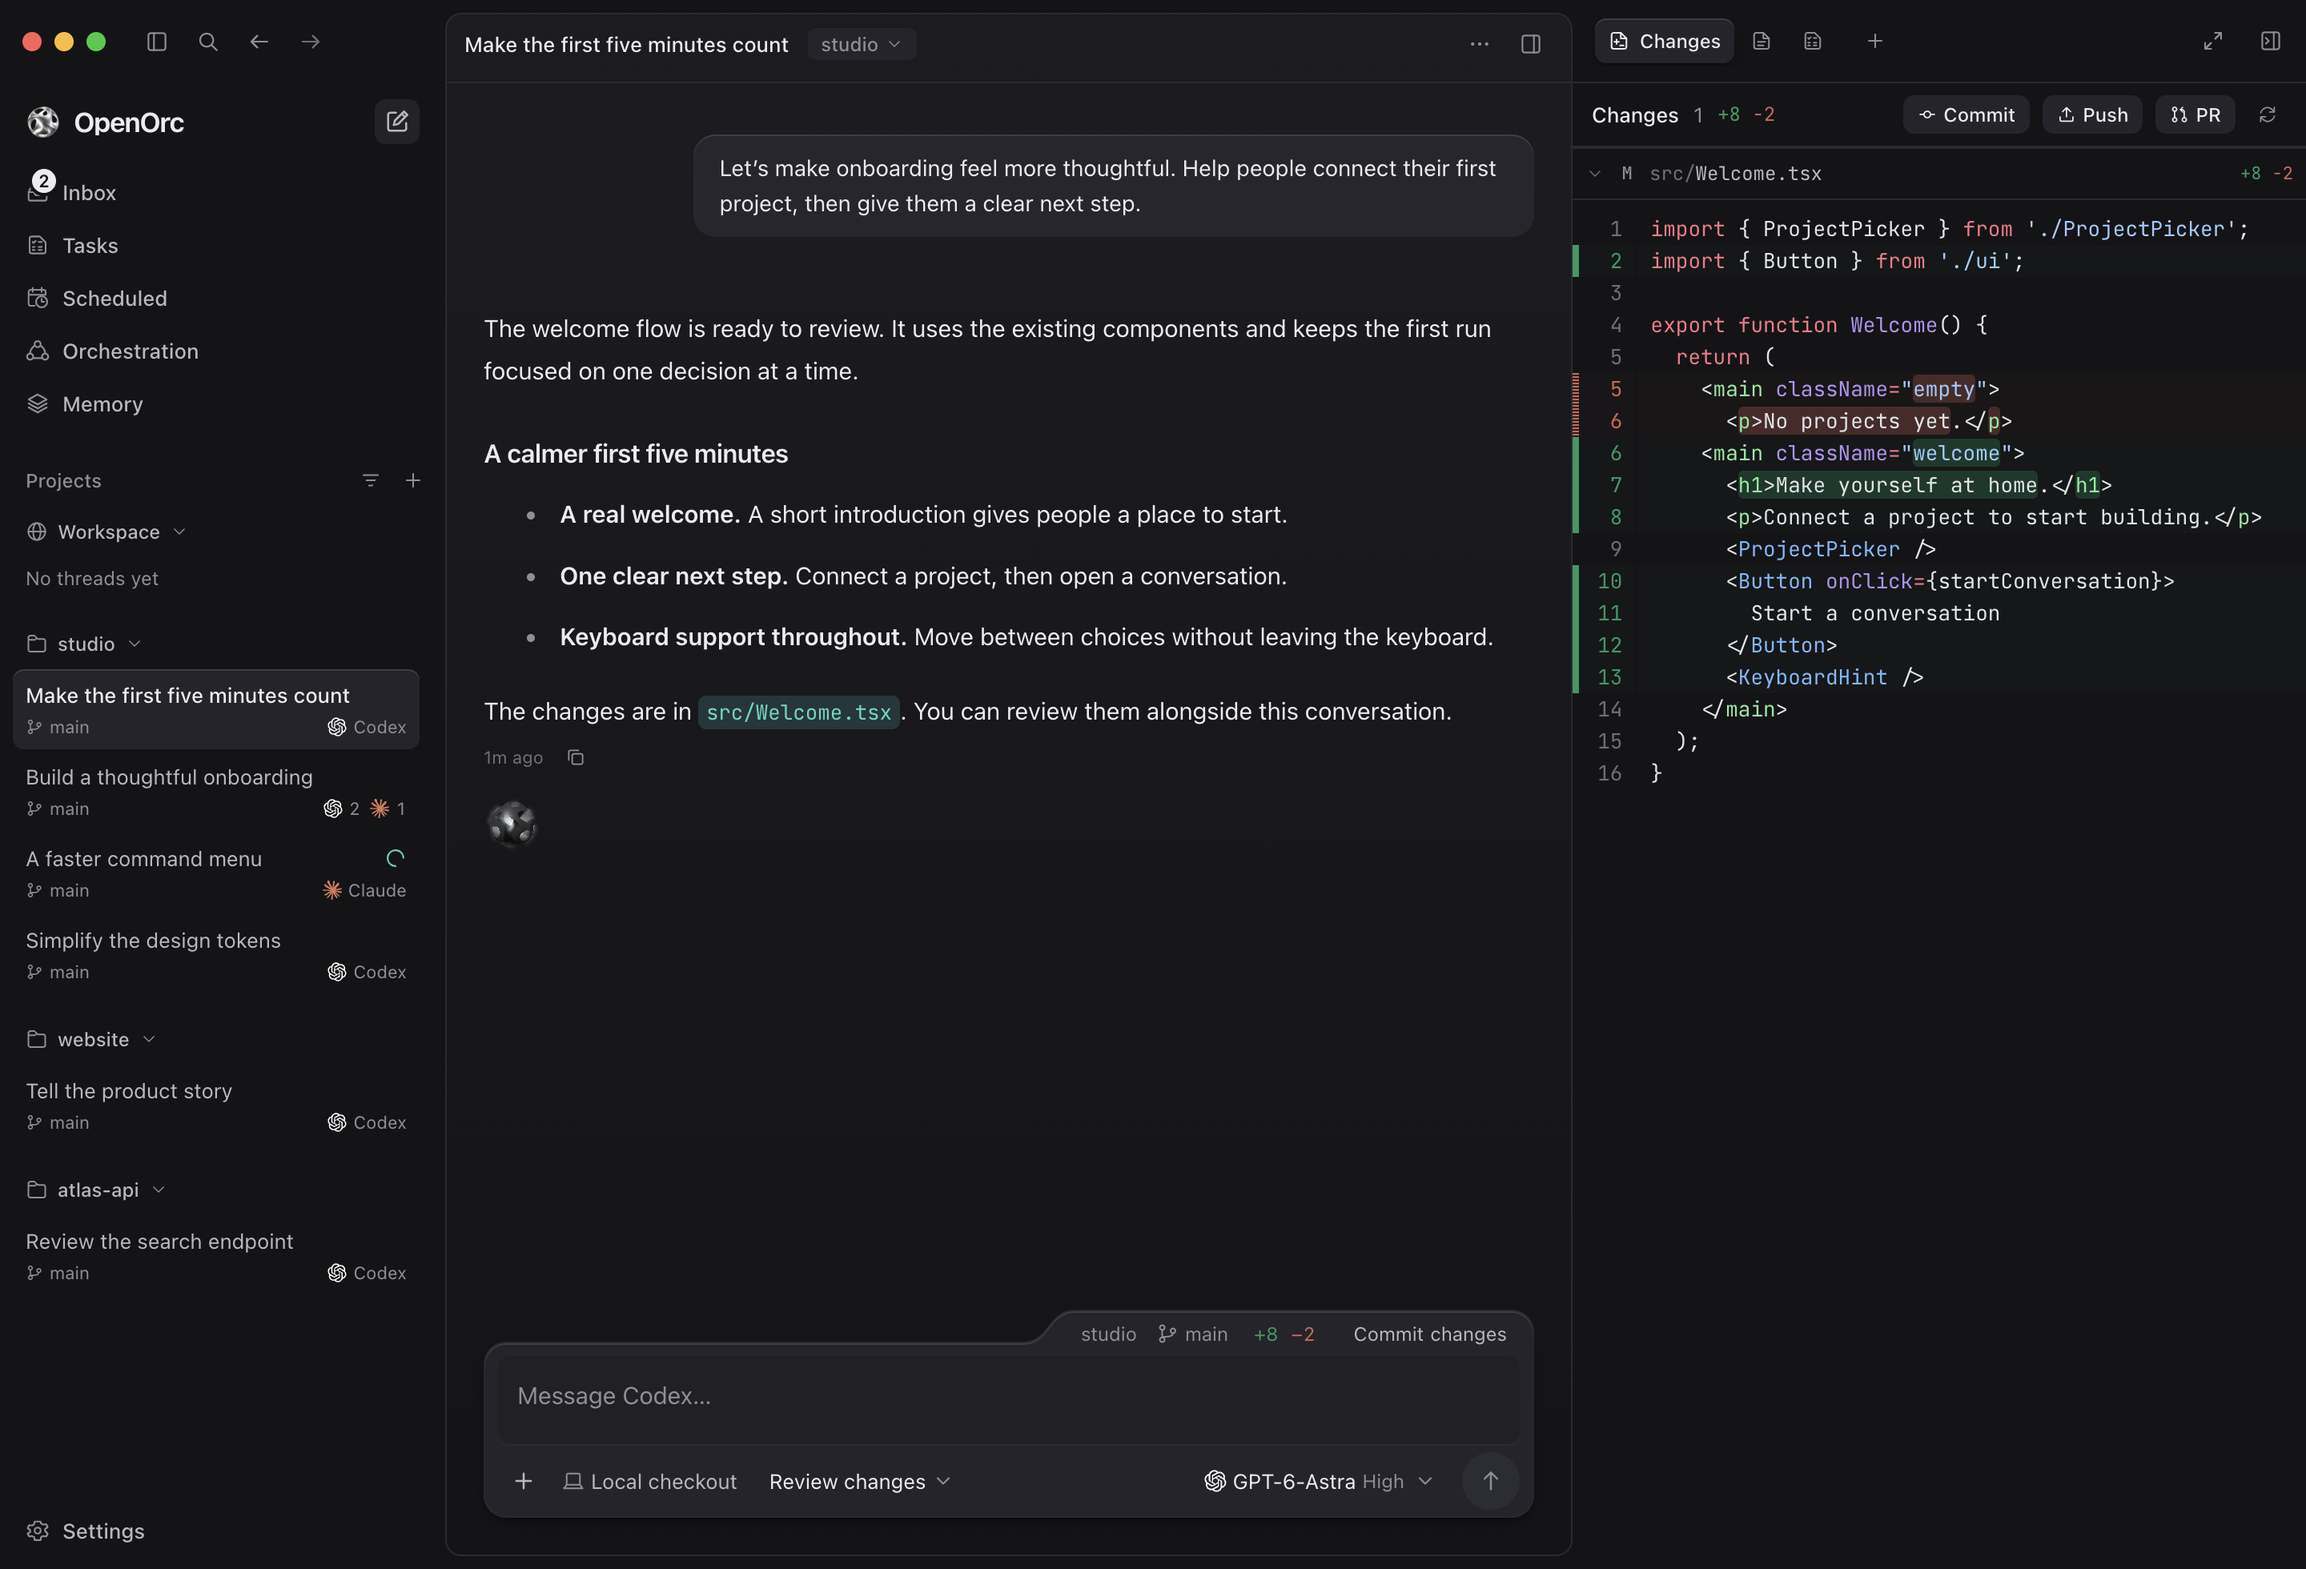
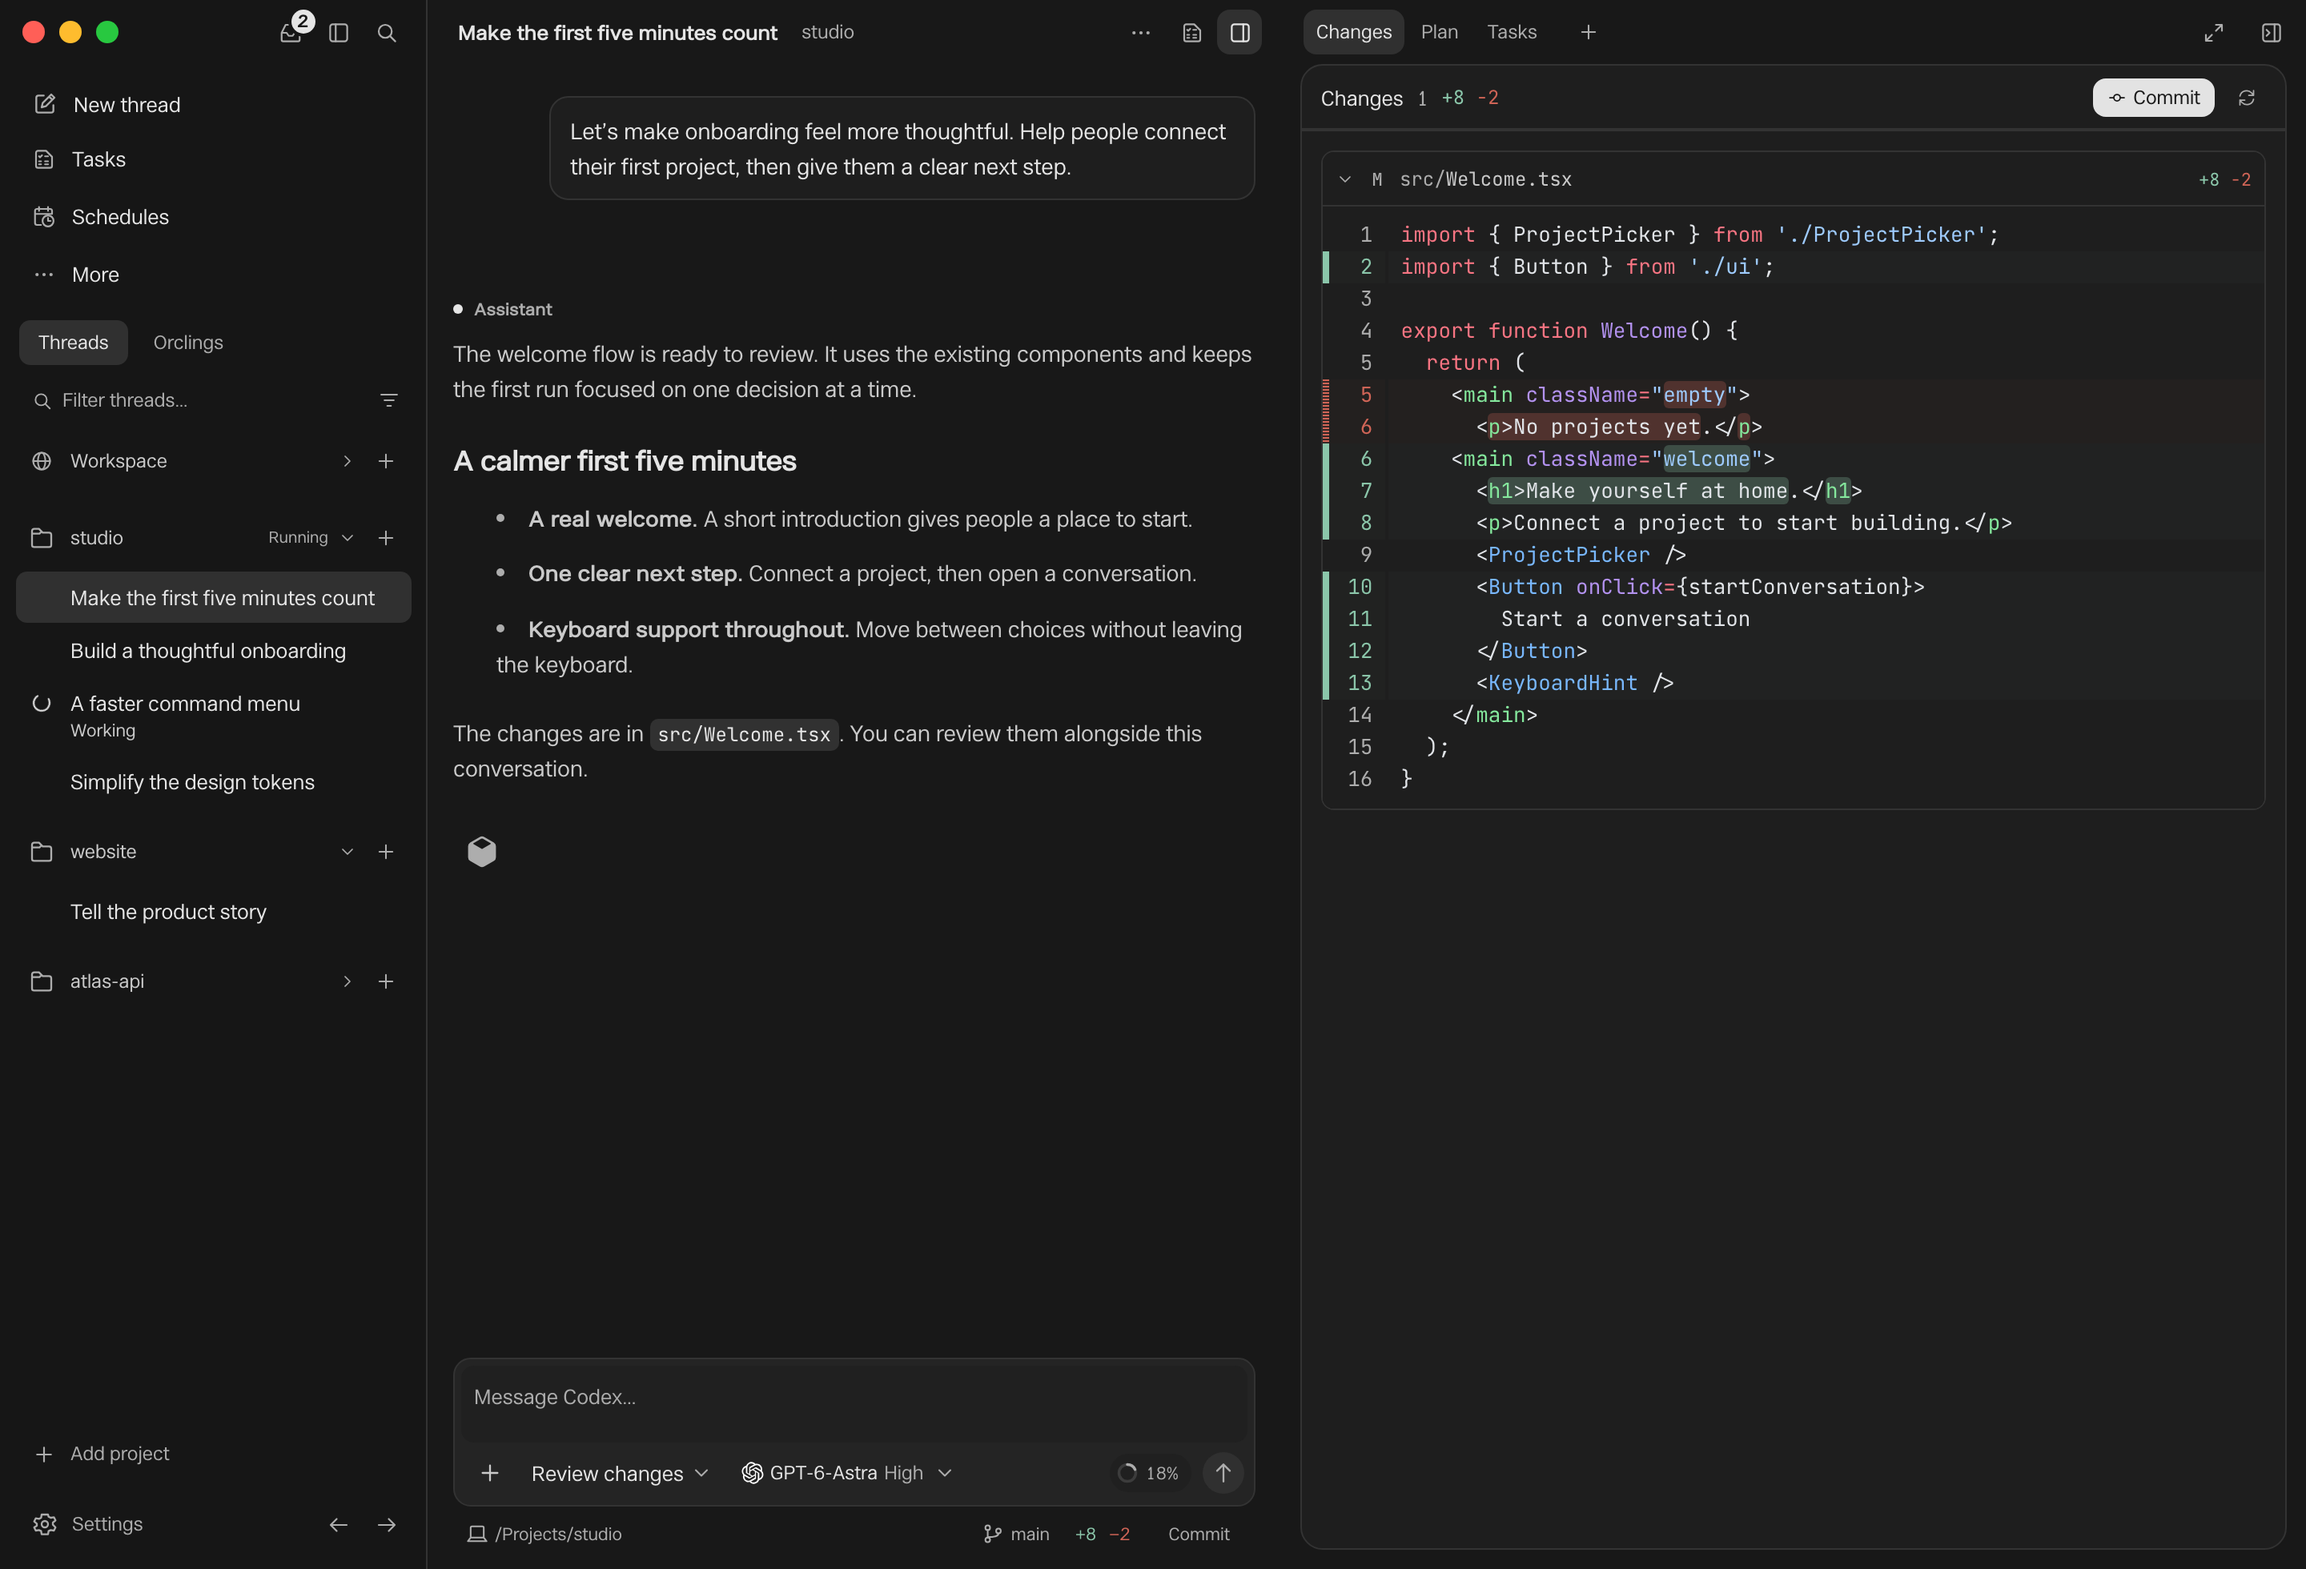
docs: show the current interface in the README
The screenshots still showed the September interface with the Hollow orb. They are captured again from the product fixture: the new sidebar, status before each title, the cube at the end of a conversation, the composer's workspace footer and Immaculate Gothic. The license note no longer credits the Hollow shader, which the app stopped showing.

diff --git a/docs/artwork-provenance.md b/docs/artwork-provenance.md
@@ -17,7 +17,7 @@ Provider marks, fonts, and third-party runtime code retain their own terms. Orig
 | Fast-mode rocket              | [Runtime, SVG and rendering checks](../assets/fast-mode/README.md). Original Rive artwork with a matching static SVG. Five colors were edited directly in the runtime export to match the SVG. The editable Rive document is not published in this repository.                                                                                                                                                                                                  |
 | Precision Outline icons       | [Icon family and export steps](precision-outline-icons.md). Code-native SVG geometry in `icons.tsx`, generated with Codex. `icons-diff.svg` and `icons-select.svg` are exported from it by `apps/desktop/scripts/icon-preview.mts`.                                                                                                                                                                                                                             |
 | Website product scenes        | [Scene and asset notes](../apps/website/README.md#product-demonstrations). HTML and CSS scenes with synthetic projects and conversations. The four team portraits and the OpenOrc mark they show have the same bytes as their desktop originals.                                                                                                                                                                                                                |
-| README product images         | [Capture record](images/readme/README.md). Real application components rendered with synthetic data by the [product fixture](../scripts/fixtures/website-product-ui.tsx), captured at 2× density. They include the Hollow indicator and team avatars.                                                                                                                                                                                                           |
+| README product images         | [Capture record](images/readme/README.md). Real application components rendered with synthetic data by the [product fixture](../scripts/fixtures/website-product-ui.tsx), captured at 2× density. They include the OpenOrc cube and team avatars.                                                                                                                                                                                                               |
 | Hollow conversation indicator | [Original geometry and renderer provenance](../apps/desktop/src/renderer/src/components/orbs/README.md). The Apache-2.0 shader uses original implicit-surface geometry and analytical lighting; the separately licensed shadercn runtime retains its MIT notice.                                                                                                                                                                                                |
 
 [artwork-manifest.json](artwork-manifest.json) fingerprints the image, SVG, Rive, and icon files curated for the public source. It includes provider marks to identify their bytes, not to classify them as original work. Code-native artwork, and the SVG files exported from it, are referenced above and reviewed with their source code. A hash establishes bytes, not ownership or permission; refresh the record when an asset changes.

diff --git a/docs/images/readme/README.md b/docs/images/readme/README.md
@@ -1,6 +1,6 @@
 # README screenshots
 
-Captured on September 24, 2026 from the development renderer, including the Hollow conversation indicator and team avatars. Model names match the Codex and Claude Code catalogs available on that date: GPT-6-Astra and Opus 5.5 (1M context).
+Captured on October 6, 2026 from the production renderer, with the current sidebar, the OpenOrc cube that ends a conversation, the composer's workspace footer, Immaculate Gothic type and team avatars. The sample conversations name GPT-6-Astra and Opus 5.5 (1M context).
 
 The [product fixture](../../../scripts/fixtures/website-product-ui.tsx) renders real application components and styles with synthetic projects, conversations, task comments, and changes. It does not connect to real accounts, providers, project files, or the desktop database. The team view demonstrates team execution, now in Beta.
 
@@ -19,7 +19,7 @@ node scripts/website-product-fixture.cjs
 python3 -m http.server 4382 --bind 127.0.0.1 --directory output/qa/website-product
 ```
 
-Open each view at `http://127.0.0.1:4382/`. These captures used the repository's Electron runtime, an isolated user-data directory, the content sizes above, and a device scale factor of 2. The fixture's `scale` parameter was left unset. Wait for fonts, diffs, and the Hollow canvas to finish painting before capturing the page. Confirm the canvas is visible rather than the fallback glyph; reduced motion or unavailable WebGPU can prevent the shader from appearing. Check that the team conversation fits without scrolling; at a shorter viewport its first message loses its top spacing.
+Open each view at `http://127.0.0.1:4382/`. These captures used Playwright's Chromium with a dark color scheme, the logical viewports above, and a device scale factor of 2. The fixture's `scale` parameter was left unset. Wait for fonts and diffs to finish painting before capturing the page. Check that the team conversation fits without scrolling; at a shorter viewport its first message loses its top spacing.
 
 Images are direct PNG page captures, without compositing or retouching. Window buttons in the full workspace views are supplied by the existing fixture; the task discussion is a production panel detail. Keep temporary builds, capture scripts, and profiles in ignored `output/` directories. Inspect captures for private data and clipping before replacing these curated images.
 

diff --git a/README.md b/README.md
@@ -43,7 +43,7 @@ Memory is optional. Turn it off or configure automatic extraction in Settings.
 
 Capture an idea as a task, ask multiple models for input, then start implementation when you're ready. Work in your local checkout or an isolated worktree, and review changes beside the conversation.
 
-![OpenOrc with project threads in the sidebar, a Codex conversation with the Hollow orb, and a source diff in the Changes pane](docs/images/readme/workspace.png)
+![OpenOrc with project threads in the sidebar, a Codex conversation ending in the OpenOrc cube, and a source diff in the Changes panel](docs/images/readme/workspace.png)
 
 ![OpenOrc team conversation showing the lead, builder, and reviewer with their models, contributions, and shared composer](docs/images/readme/teams.png)
 
@@ -154,6 +154,6 @@ OpenOrc takes inspiration from the [Codex desktop app](https://developers.openai
 
 OpenOrc's original code and documentation are licensed under the [Apache License, Version 2.0](LICENSE). See [NOTICE](NOTICE) for project attribution. Third-party dependencies and separately licensed assets retain their respective licenses and notices.
 
-The conversation indicator uses the original Apache-2.0 Hollow shader with a separately licensed MIT runtime. Provider marks retain separate rights. See [third-party notices](THIRD_PARTY_NOTICES.md) and [artwork provenance](docs/artwork-provenance.md) for attribution, asset sources, and permission limits.
+Provider marks retain separate rights. See [third-party notices](THIRD_PARTY_NOTICES.md) and [artwork provenance](docs/artwork-provenance.md) for attribution, asset sources, and permission limits.
 
 The license does not grant trademark rights to the OpenOrc name or branding, except for the descriptive uses permitted by the license.
